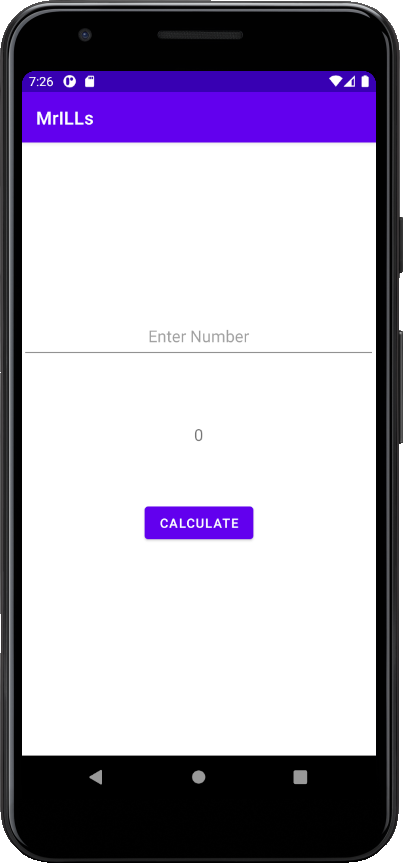
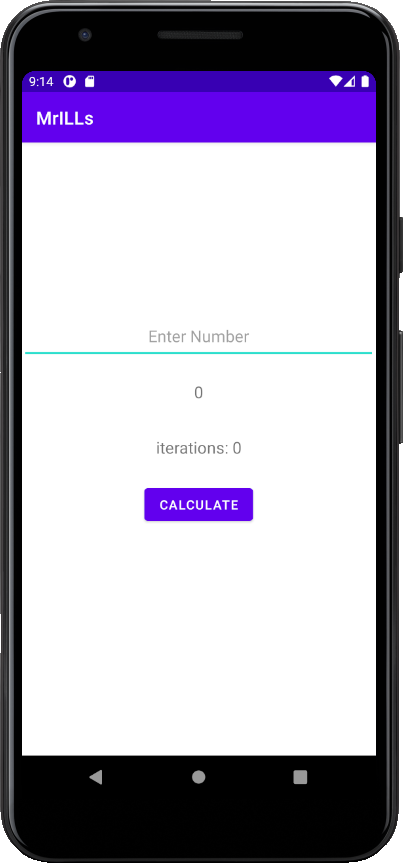
feat(3.1): additional task

Changed region(s): [[0.3573, 0.5625, 0.6551, 0.625], [0.3871, 0.5, 0.5955, 0.5312], [0.4764, 0.4375, 0.5062, 0.4688]]

diff --git a/app/src/main/java/com/example/mrills/MainActivity.kt b/app/src/main/java/com/example/mrills/MainActivity.kt
@@ -13,21 +13,26 @@ fun formatResult(num1: Long, num2: Long): String {
     return "${num1.toString()}, ${num2.toString()}"
 }
 
-fun fermaFactors(n: Long): String {
+fun formatResultIter(i: Long): String {
+    return "iterations: ${i.toString()}"
+}
+
+fun fermaFactors(n: Long): Array<String> {
     if(n <= 0) {
-        return n.toString()
+        return arrayOf(n.toString(), formatResultIter(0))
     }
 
     if(n % 2 == 0L) {
-        return formatResult(n/2, n)
+        return arrayOf(formatResult(n/2, n), formatResultIter(0))
     }
 
     var a: Long = ceil(sqrt(n.toDouble())).toLong()
     if(a * a == n) {
-        return formatResult(a, a)
+        return arrayOf(formatResult(a, a), formatResultIter(0))
     }
 
     var b: Long
+    var i: Long = 0
     while(true) {
         val b1: Long = a * a - n
         b = sqrt(b1.toDouble()).toLong()
@@ -36,8 +41,9 @@ fun fermaFactors(n: Long): String {
         } else {
             a += 1
         }
+        i++
     }
-    return formatResult(a - b, a + b)
+    return arrayOf(formatResult(a - b, a + b), formatResultIter(i))
 }
 
 class MainActivity : AppCompatActivity() {
@@ -50,9 +56,12 @@ class MainActivity : AppCompatActivity() {
             val tvResult: TextView = findViewById(R.id.tvResult)
             val etNumber: EditText = findViewById(R.id.etNumber)
             val num: Long = etNumber.text.toString().toLong()
-            tvResult.text = fermaFactors(num)
+            val tvResultIter: TextView = findViewById(R.id.tvResultIter)
 
-            Toast.makeText(this, "fuck", Toast.LENGTH_SHORT).show()
+            val res = fermaFactors(num)
+
+            tvResult.text = res[0]
+            tvResultIter.text = res[1]
         }
 //        button.setOnClickListener(object : OnClickListener() {
 //            fun onClick(v: View?) {
